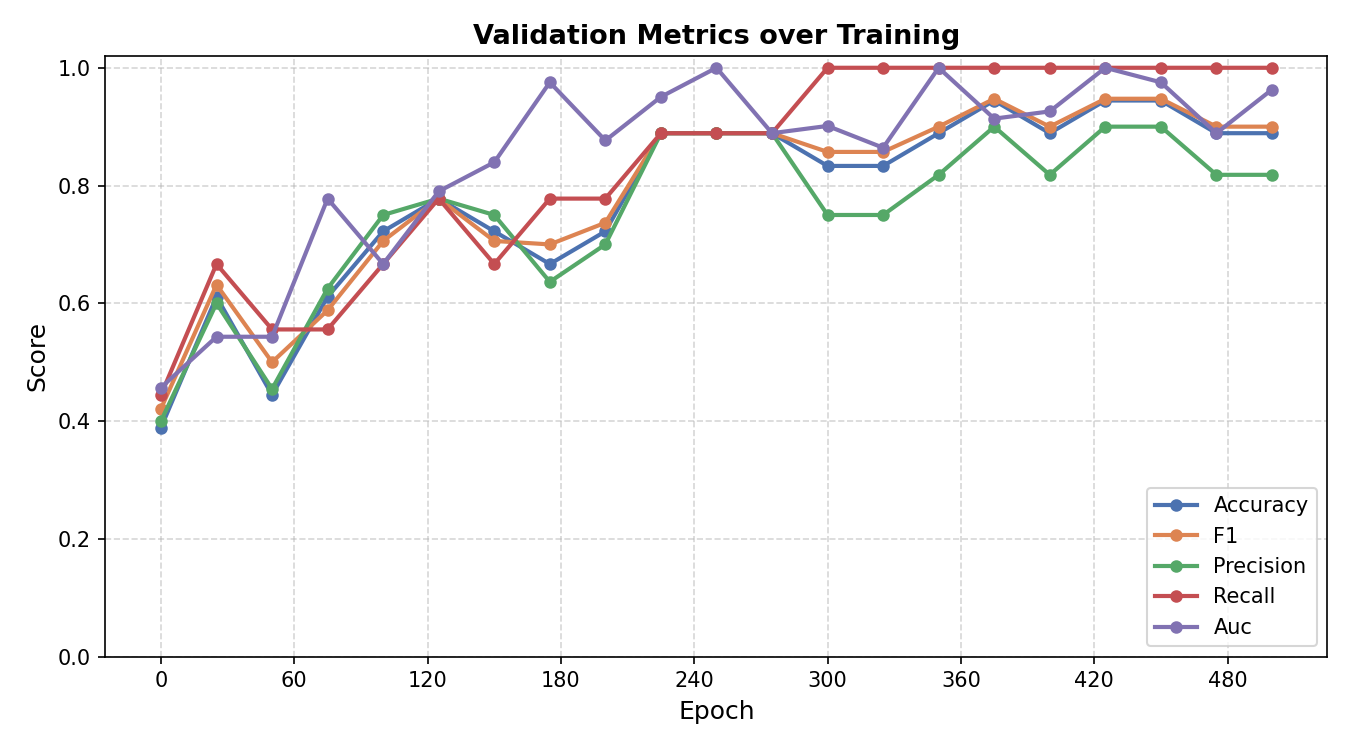
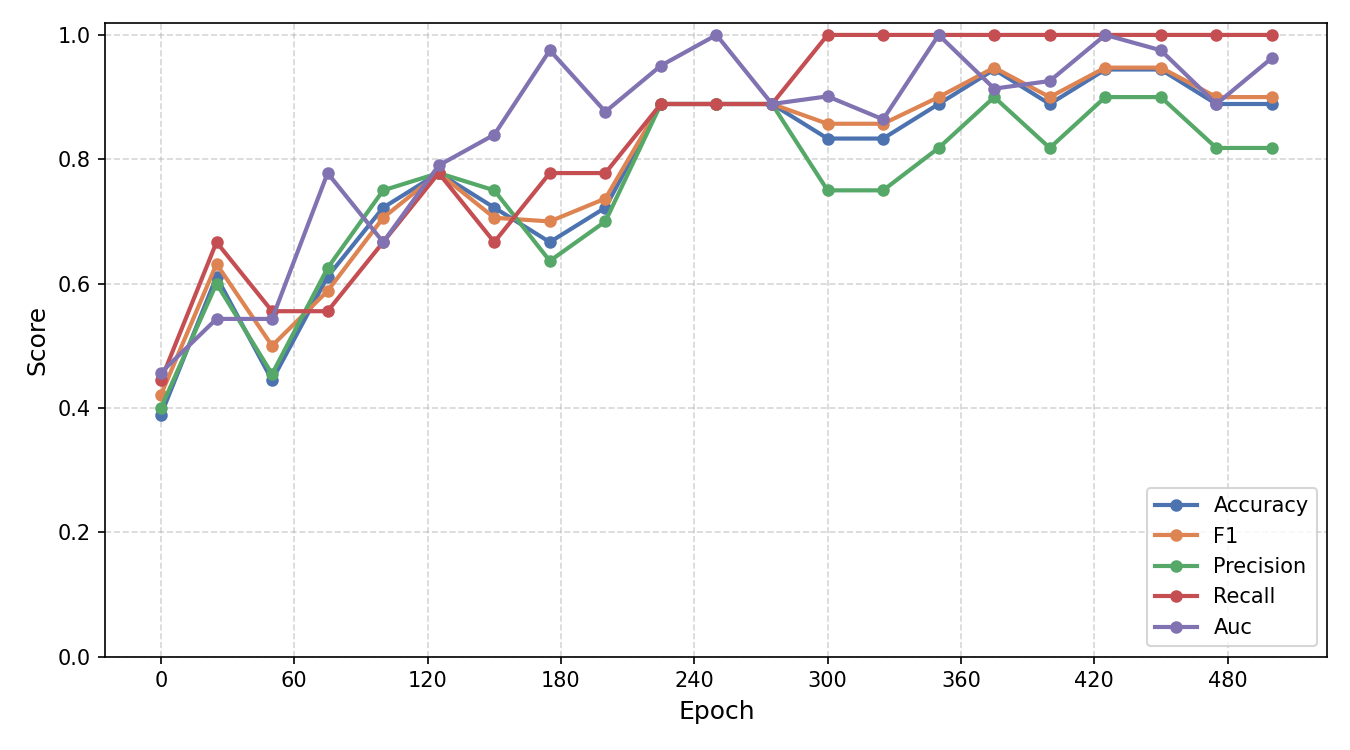
[EVAL] Plot updates for cv experiments and plots wihtout label for thesis

diff --git a/results/fundus-unet/finetuned-model/cv_results/10-fold/hold-out/plot_cv_accuracy_finetuned_model.py b/results/fundus-unet/finetuned-model/cv_results/10-fold/hold-out/plot_cv_accuracy_finetuned_model.py
@@ -1,0 +1,140 @@
+"""
+Plot the per-fold accuracy trajectory across training epochs for the Drusen
+(Phase-2 finetuning) cross-validation runs, one line per fold on a single
+graph (analogous to the per-fold accuracy plots in Favero et al.).
+
+Run:
+    python results/plot-scripts/plot_cv_accuracy.py
+"""
+
+import os
+import matplotlib.pyplot as plt
+import matplotlib.ticker as mticker
+
+# ── USER INPUT ────────────────────────────────────────────────────────────────
+# List of (epoch, accuracy) pairs per fold, from the 10-fold hold-out-restricted
+# finetuning CV log (log_cv_10_holdout_data_10.log).
+ACCURACY_BY_FOLD = {
+    "fold 0": [
+        (0, 0.5500), (25, 0.5000), (50, 0.6000), (75, 0.6500), (100, 0.6500),
+        (125, 0.8000), (150, 0.8000), (175, 0.9000), (200, 0.8500), (225, 0.9000),
+        (250, 0.9500), (275, 0.9000), (300, 0.9000), (325, 0.8500), (350, 0.8000),
+        (375, 0.8500), (400, 0.9500), (425, 0.8500), (450, 0.8500), (475, 0.9000),
+        (499, 0.8500),
+    ],
+    "fold 1": [
+        (0, 0.5000), (25, 0.4545), (50, 0.5455), (75, 0.6818), (100, 0.6364),
+        (125, 0.8182), (150, 0.7273), (175, 0.6818), (200, 0.6818), (225, 0.8636),
+        (250, 0.7727), (275, 0.8636), (300, 0.7727), (325, 0.7727), (350, 0.7273),
+        (375, 0.9091), (400, 0.8182), (425, 0.8636), (450, 0.8636), (475, 0.9545),
+        (499, 0.8636),
+    ],
+    "fold 2": [
+        (0, 0.6818), (25, 0.7273), (50, 0.6364), (75, 0.7273), (100, 0.7273),
+        (125, 0.8636), (150, 0.9091), (175, 0.9545), (200, 0.9545), (225, 0.8636),
+        (250, 0.9091), (275, 0.9545), (300, 0.9091), (325, 0.9545), (350, 0.9545),
+        (375, 1.0000), (400, 0.9545), (425, 0.8636), (450, 0.9545), (475, 0.9545),
+        (499, 0.8636),
+    ],
+    "fold 3": [
+        (0, 0.4500), (25, 0.4000), (50, 0.5000), (75, 0.4500), (100, 0.5500),
+        (125, 0.5000), (150, 0.5000), (175, 0.6000), (200, 0.6500), (225, 0.7000),
+        (250, 0.8000), (275, 0.7000), (300, 0.7000), (325, 0.8000), (350, 0.9000),
+        (375, 0.9000), (400, 0.8000), (425, 0.8500), (450, 0.8500), (475, 0.8500),
+        (499, 0.8500),
+    ],
+    "fold 4": [
+        (0, 0.5000), (25, 0.5500), (50, 0.5000), (75, 0.7000), (100, 0.6000),
+        (125, 0.7000), (150, 0.6500), (175, 0.7000), (200, 0.8000), (225, 0.8000),
+        (250, 0.7000), (275, 0.7000), (300, 0.8000), (325, 0.7500), (350, 0.8500),
+        (375, 0.7500), (400, 0.8000), (425, 0.7500), (450, 0.8000), (475, 0.8500),
+        (499, 0.8500),
+    ],
+    "fold 5": [
+        (0, 0.4167), (25, 0.5417), (50, 0.2917), (75, 0.5833), (100, 0.5417),
+        (125, 0.5833), (150, 0.4583), (175, 0.5417), (200, 0.7083), (225, 0.8750),
+        (250, 0.8750), (275, 0.9167), (300, 0.9167), (325, 0.8333), (350, 0.9583),
+        (375, 0.9167), (400, 0.9167), (425, 0.9583), (450, 0.8333), (475, 0.9583),
+        (499, 0.8333),
+    ],
+    "fold 6": [
+        (0, 0.3462), (25, 0.4615), (50, 0.4231), (75, 0.3846), (100, 0.5769),
+        (125, 0.5385), (150, 0.5385), (175, 0.6154), (200, 0.5769), (225, 0.6154),
+        (250, 0.6538), (275, 0.6923), (300, 0.6923), (325, 0.7692), (350, 0.7692),
+        (375, 0.8077), (400, 0.6923), (425, 0.7692), (450, 0.8077), (475, 0.7692),
+        (499, 0.7692),
+    ],
+    "fold 7": [
+        (0, 0.5455), (25, 0.4091), (50, 0.4545), (75, 0.4091), (100, 0.5455),
+        (125, 0.5909), (150, 0.7727), (175, 0.8636), (200, 0.8182), (225, 0.8182),
+        (250, 0.8636), (275, 0.8636), (300, 0.7727), (325, 0.8182), (350, 0.8636),
+        (375, 0.9091), (400, 0.9091), (425, 0.9091), (450, 0.8636), (475, 0.9091),
+        (499, 0.8636),
+    ],
+    "fold 8": [
+        (0, 0.4286), (25, 0.5357), (50, 0.5000), (75, 0.6429), (100, 0.7143),
+        (125, 0.7500), (150, 0.7143), (175, 0.7857), (200, 0.7857), (225, 0.7500),
+        (250, 0.8571), (275, 0.8214), (300, 0.8929), (325, 0.7857), (350, 0.8571),
+        (375, 0.8214), (400, 0.8929), (425, 0.8571), (450, 0.9286), (475, 0.8571),
+        (499, 0.8929),
+    ],
+    "fold 9": [
+        (0, 0.3889), (25, 0.5000), (50, 0.4444), (75, 0.6667), (100, 0.6111),
+        (125, 0.6667), (150, 0.7222), (175, 0.6111), (200, 0.6667), (225, 0.7222),
+        (250, 0.6667), (275, 0.7778), (300, 0.7778), (325, 0.7222), (350, 0.7222),
+        (375, 0.7778), (400, 0.8333), (425, 0.7778), (450, 0.8333), (475, 0.8333),
+        (499, 0.8333),
+    ],
+}
+
+OUTPUT_DIR = "experiments/fundus-unet/plots"
+# ─────────────────────────────────────────────────────────────────────────────
+
+FOLD_COLORS = {
+    "fold 0": "#4C72B0",
+    "fold 1": "#DD8452",
+    "fold 2": "#55A868",
+    "fold 3": "#C44E52",
+    "fold 4": "#8172B2",
+    "fold 5": "#937860",
+    "fold 6": "#DA8BC3",
+    "fold 7": "#8C8C8C",
+    "fold 8": "#CCB974",
+    "fold 9": "#64B5CD",
+}
+DEFAULT_COLOR = "#808080"
+
+
+def main():
+    os.makedirs(OUTPUT_DIR, exist_ok=True)
+
+    active = {k: v for k, v in ACCURACY_BY_FOLD.items() if v}
+    if not active:
+        print("No accuracy values entered yet. Fill in ACCURACY_BY_FOLD and re-run.")
+        return
+
+    fig, ax = plt.subplots(figsize=(9, 5))
+
+    for fold_name, points in active.items():
+        epochs = [e for e, _ in points]
+        values = [v for _, v in points]
+        color = FOLD_COLORS.get(fold_name, DEFAULT_COLOR)
+        ax.plot(epochs, values, marker="o", linewidth=2, markersize=4,
+                color=color, label=fold_name.capitalize())
+
+    ax.set_xlabel("Epoch", fontsize=12)
+    ax.set_ylabel("Accuracy", fontsize=12)
+    ax.set_ylim(0.0, 1.02)
+    ax.xaxis.set_major_locator(mticker.MaxNLocator(integer=True))
+    ax.grid(True, linestyle="--", alpha=0.5)
+    ax.legend(fontsize=10, loc="lower right")
+
+    fig.tight_layout()
+    path = os.path.join(OUTPUT_DIR, "cv_accuracy_per_fold.png")
+    fig.savefig(path, dpi=150)
+    plt.close(fig)
+    print(f"Saved: {path}")
+
+
+if __name__ == "__main__":
+    main()

diff --git a/results/fundus-unet/finetuned-model/cv_results/10-fold/hold-out/plot_cv_f1_finetuned_model.py b/results/fundus-unet/finetuned-model/cv_results/10-fold/hold-out/plot_cv_f1_finetuned_model.py
@@ -1,0 +1,139 @@
+"""
+Plot the per-fold F1-score trajectory across training epochs for the Drusen
+(Phase-2 finetuning) cross-validation runs, one line per fold on a single graph.
+
+Run:
+    python results/plot-scripts/plot_cv_f1.py
+"""
+
+import os
+import matplotlib.pyplot as plt
+import matplotlib.ticker as mticker
+
+# ── USER INPUT ────────────────────────────────────────────────────────────────
+# List of (epoch, F1) pairs per fold, from the 10-fold hold-out-restricted
+# finetuning CV log (log_cv_10_holdout_data_10.log).
+F1_BY_FOLD = {
+    "fold 0": [
+        (0, 0.5714), (25, 0.5455), (50, 0.6364), (75, 0.6316), (100, 0.6667),
+        (125, 0.8000), (150, 0.8182), (175, 0.9000), (200, 0.8696), (225, 0.9091),
+        (250, 0.9524), (275, 0.9091), (300, 0.9091), (325, 0.8696), (350, 0.8182),
+        (375, 0.8696), (400, 0.9524), (425, 0.8696), (450, 0.8696), (475, 0.9091),
+        (499, 0.8696),
+    ],
+    "fold 1": [
+        (0, 0.5600), (25, 0.5385), (50, 0.5833), (75, 0.7200), (100, 0.6667),
+        (125, 0.8462), (150, 0.7500), (175, 0.7407), (200, 0.7407), (225, 0.8800),
+        (250, 0.8000), (275, 0.8800), (300, 0.8148), (325, 0.8000), (350, 0.7857),
+        (375, 0.9167), (400, 0.8462), (425, 0.8696), (450, 0.8800), (475, 0.9565),
+        (499, 0.8800),
+    ],
+    "fold 2": [
+        (0, 0.6957), (25, 0.7273), (50, 0.6000), (75, 0.7273), (100, 0.6667),
+        (125, 0.8571), (150, 0.9000), (175, 0.9565), (200, 0.9524), (225, 0.8696),
+        (250, 0.9091), (275, 0.9524), (300, 0.9091), (325, 0.9524), (350, 0.9524),
+        (375, 1.0000), (400, 0.9524), (425, 0.8696), (450, 0.9524), (475, 0.9524),
+        (499, 0.8696),
+    ],
+    "fold 3": [
+        (0, 0.4762), (25, 0.4545), (50, 0.4444), (75, 0.4211), (100, 0.4706),
+        (125, 0.5000), (150, 0.5000), (175, 0.6000), (200, 0.6667), (225, 0.7000),
+        (250, 0.8000), (275, 0.7000), (300, 0.6667), (325, 0.8000), (350, 0.9000),
+        (375, 0.8889), (400, 0.8000), (425, 0.8571), (450, 0.8235), (475, 0.8235),
+        (499, 0.8421),
+    ],
+    "fold 4": [
+        (0, 0.5455), (25, 0.5714), (50, 0.5455), (75, 0.7000), (100, 0.6000),
+        (125, 0.7273), (150, 0.6316), (175, 0.7000), (200, 0.8000), (225, 0.8182),
+        (250, 0.7500), (275, 0.7500), (300, 0.8182), (325, 0.7826), (350, 0.8696),
+        (375, 0.7826), (400, 0.8333), (425, 0.7826), (450, 0.8333), (475, 0.8696),
+        (499, 0.8696),
+    ],
+    "fold 5": [
+        (0, 0.3000), (25, 0.4211), (50, 0.1905), (75, 0.5000), (100, 0.4211),
+        (125, 0.4444), (150, 0.3810), (175, 0.4211), (200, 0.6667), (225, 0.8800),
+        (250, 0.8889), (275, 0.9167), (300, 0.9231), (325, 0.8462), (350, 0.9600),
+        (375, 0.9231), (400, 0.9231), (425, 0.9600), (450, 0.8462), (475, 0.9600),
+        (499, 0.8462),
+    ],
+    "fold 6": [
+        (0, 0.3704), (25, 0.5000), (50, 0.3478), (75, 0.4286), (100, 0.5600),
+        (125, 0.5000), (150, 0.5000), (175, 0.6154), (200, 0.5600), (225, 0.6429),
+        (250, 0.6667), (275, 0.7143), (300, 0.6923), (325, 0.7857), (350, 0.8125),
+        (375, 0.8276), (400, 0.7333), (425, 0.7857), (450, 0.8276), (475, 0.7857),
+        (499, 0.7857),
+    ],
+    "fold 7": [
+        (0, 0.5833), (25, 0.3158), (50, 0.4545), (75, 0.4800), (100, 0.5455),
+        (125, 0.5714), (150, 0.7368), (175, 0.8696), (200, 0.8333), (225, 0.8333),
+        (250, 0.8696), (275, 0.8800), (300, 0.7619), (325, 0.8182), (350, 0.8800),
+        (375, 0.9167), (400, 0.9091), (425, 0.9091), (450, 0.8696), (475, 0.9091),
+        (499, 0.8696),
+    ],
+    "fold 8": [
+        (0, 0.4286), (25, 0.5517), (50, 0.4615), (75, 0.6875), (100, 0.7333),
+        (125, 0.7586), (150, 0.7500), (175, 0.8000), (200, 0.8125), (225, 0.7879),
+        (250, 0.8750), (275, 0.8485), (300, 0.9032), (325, 0.8125), (350, 0.8667),
+        (375, 0.8485), (400, 0.8966), (425, 0.8750), (450, 0.9333), (475, 0.8750),
+        (499, 0.8966),
+    ],
+    "fold 9": [
+        (0, 0.4762), (25, 0.5714), (50, 0.5000), (75, 0.7000), (100, 0.5882),
+        (125, 0.6667), (150, 0.7619), (175, 0.6316), (200, 0.7000), (225, 0.7619),
+        (250, 0.7273), (275, 0.8182), (300, 0.8000), (325, 0.7619), (350, 0.7619),
+        (375, 0.8000), (400, 0.8571), (425, 0.8182), (450, 0.8571), (475, 0.8421),
+        (499, 0.8421),
+    ],
+}
+
+OUTPUT_DIR = "experiments/fundus-unet/plots"
+# ─────────────────────────────────────────────────────────────────────────────
+
+FOLD_COLORS = {
+    "fold 0": "#4C72B0",
+    "fold 1": "#DD8452",
+    "fold 2": "#55A868",
+    "fold 3": "#C44E52",
+    "fold 4": "#8172B2",
+    "fold 5": "#937860",
+    "fold 6": "#DA8BC3",
+    "fold 7": "#8C8C8C",
+    "fold 8": "#CCB974",
+    "fold 9": "#64B5CD",
+}
+DEFAULT_COLOR = "#808080"
+
+
+def main():
+    os.makedirs(OUTPUT_DIR, exist_ok=True)
+
+    active = {k: v for k, v in F1_BY_FOLD.items() if v}
+    if not active:
+        print("No F1 values entered yet. Fill in F1_BY_FOLD and re-run.")
+        return
+
+    fig, ax = plt.subplots(figsize=(9, 5))
+
+    for fold_name, points in active.items():
+        epochs = [e for e, _ in points]
+        values = [v for _, v in points]
+        color = FOLD_COLORS.get(fold_name, DEFAULT_COLOR)
+        ax.plot(epochs, values, marker="o", linewidth=2, markersize=4,
+                color=color, label=fold_name.capitalize())
+
+    ax.set_xlabel("Epoch", fontsize=12)
+    ax.set_ylabel("F1 score", fontsize=12)
+    ax.set_ylim(0.0, 1.02)
+    ax.xaxis.set_major_locator(mticker.MaxNLocator(integer=True))
+    ax.grid(True, linestyle="--", alpha=0.5)
+    ax.legend(fontsize=10, loc="lower right")
+
+    fig.tight_layout()
+    path = os.path.join(OUTPUT_DIR, "cv_f1_per_fold.png")
+    fig.savefig(path, dpi=150)
+    plt.close(fig)
+    print(f"Saved: {path}")
+
+
+if __name__ == "__main__":
+    main()

diff --git a/results/fundus-unet/finetuned-model/plot_metrics_finetuned_model_single_run.py b/results/fundus-unet/finetuned-model/plot_metrics_finetuned_model_single_run.py
@@ -105,7 +105,6 @@ def plot_individual(metrics, output_dir):
 
         ax.set_xlabel("Epoch", fontsize=12)
         ax.set_ylabel(name.capitalize(), fontsize=12)
-        ax.set_title(f"{name.capitalize()} over Training", fontsize=13, fontweight="bold")
         ax.set_ylim(*adjusted_ylim(name, values))
         ax.xaxis.set_major_locator(mticker.MaxNLocator(integer=True))
         ax.grid(True, linestyle="--", alpha=0.5)
@@ -134,7 +133,6 @@ def plot_combined(metrics, output_dir):
 
     ax.set_xlabel("Epoch", fontsize=12)
     ax.set_ylabel("Score", fontsize=12)
-    ax.set_title("Validation Metrics over Training", fontsize=13, fontweight="bold")
     ax.set_ylim(0.0, 1.02)
     ax.xaxis.set_major_locator(mticker.MaxNLocator(integer=True))
     ax.grid(True, linestyle="--", alpha=0.5)

diff --git a/results/fundus-unet/training-from-scratch/plot_metrics_from_scratch_model_single_run.py b/results/fundus-unet/training-from-scratch/plot_metrics_from_scratch_model_single_run.py
@@ -110,7 +110,6 @@ def plot_individual(metrics, output_dir):
 
         ax.set_xlabel("Epoch", fontsize=12)
         ax.set_ylabel(name.capitalize(), fontsize=12)
-        ax.set_title(f"{name.capitalize()} over Training", fontsize=13, fontweight="bold")
         ax.set_ylim(*adjusted_ylim(name, values))
         ax.xaxis.set_major_locator(mticker.MaxNLocator(integer=True))
         ax.grid(True, linestyle="--", alpha=0.5)
@@ -139,7 +138,6 @@ def plot_combined(metrics, output_dir):
 
     ax.set_xlabel("Epoch", fontsize=12)
     ax.set_ylabel("Score", fontsize=12)
-    ax.set_title("Validation Metrics over Training", fontsize=13, fontweight="bold")
     ax.set_ylim(0.0, 1.02)
     ax.xaxis.set_major_locator(mticker.MaxNLocator(integer=True))
     ax.grid(True, linestyle="--", alpha=0.5)

diff --git a/results/plot-scripts/plot_uncertainty_filtering.py b/results/plot-scripts/plot_uncertainty_filtering.py
@@ -70,8 +70,6 @@ def main():
 
     ax.set_xlabel("Removed data (%, most uncertain first)", fontsize=12)
     ax.set_ylabel("Accuracy on remaining data", fontsize=12)
-    ax.set_title("Drusen Classification — Accuracy vs. Uncertainty-Based Filtering",
-                 fontsize=13, fontweight="bold")
     ax.set_xlim(0, 102)
     ax.set_ylim(0.0, 1.02)
     ax.grid(True, linestyle="--", alpha=0.5)

diff --git a/results/plot-scripts/plot_accuracy_vs_steps_single_run.py b/results/plot-scripts/plot_accuracy_vs_steps_single_run.py
@@ -55,8 +55,6 @@ def main():
     ax.set_xticklabels([str(s) for s in steps])
     ax.set_xlabel("Classification steps (N)", fontsize=12)
     ax.set_ylabel("Accuracy", fontsize=12)
-    ax.set_title("Drusen Finetuning (Single Run) — Accuracy vs. Classification Steps",
-                 fontsize=13, fontweight="bold")
     ax.set_ylim(0.0, 1.0)
     ax.grid(True, linestyle="--", alpha=0.5)
 

diff --git a/results/fundus-unet/training-from-scratch/plot_loss_from_scratch_model_single_run.py b/results/fundus-unet/training-from-scratch/plot_loss_from_scratch_model_single_run.py
@@ -123,7 +123,6 @@ def main():
 
     ax.set_xlabel("Epoch", fontsize=12)
     ax.set_ylabel("Reconstruction loss", fontsize=12)
-    ax.set_title("Phase 2 Drusen Training from Scratch — Train Loss", fontsize=13, fontweight="bold")
     ax.xaxis.set_major_locator(mticker.MaxNLocator(integer=True))
     ax.grid(True, linestyle="--", alpha=0.5)
     ax.margins(y=0.02)

diff --git a/results/fundus-unet/finetuned-model/plot_loss_finetuned_model_single_run.py b/results/fundus-unet/finetuned-model/plot_loss_finetuned_model_single_run.py
@@ -103,7 +103,6 @@ def main():
 
     ax.set_xlabel("Epoch", fontsize=12)
     ax.set_ylabel("Reconstruction loss", fontsize=12)
-    ax.set_title("Phase 2 Drusen Finetuning — Train Loss", fontsize=13, fontweight="bold")
     ax.xaxis.set_major_locator(mticker.MaxNLocator(integer=True))
     ax.grid(True, linestyle="--", alpha=0.5)
     ax.margins(y=0.02)
